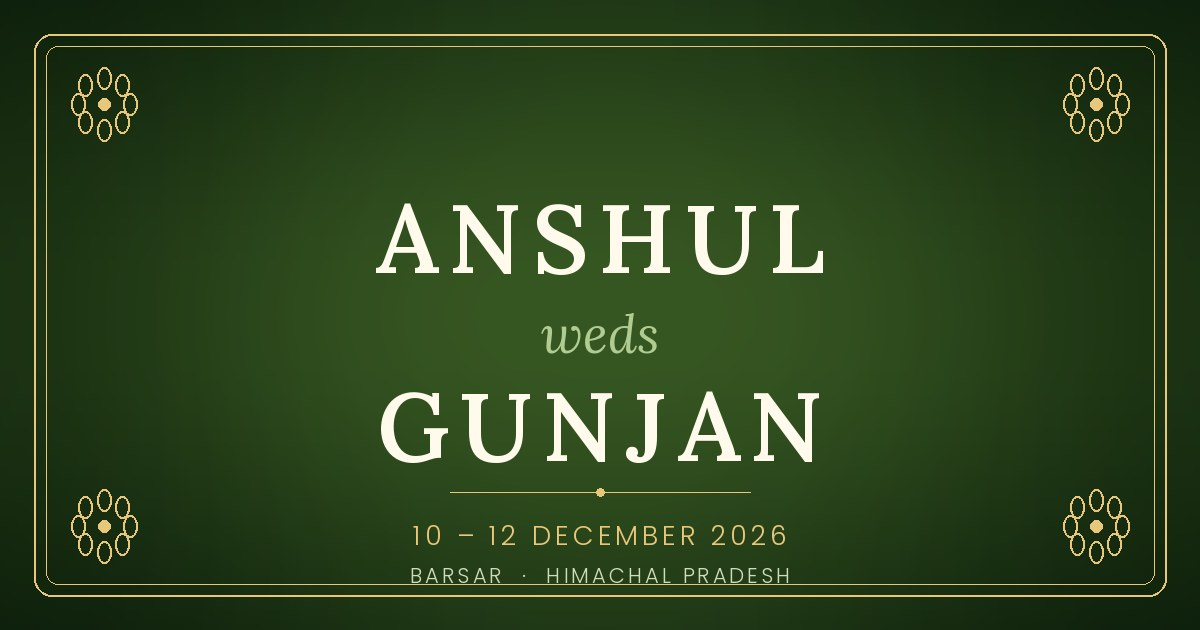
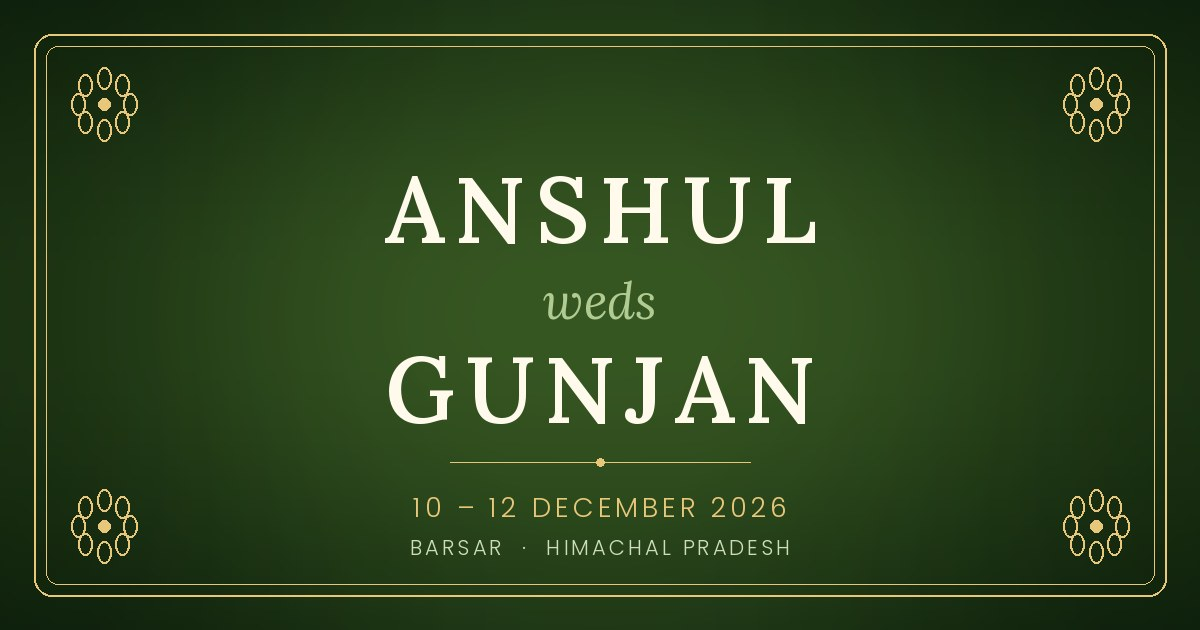
chore: update share preview image
Bump og.jpg cache-buster so WhatsApp refreshes the card.

Changed region(s): [[0.3083, 0.2714, 0.7092, 0.9349]]

diff --git a/index.html b/index.html
@@ -10,8 +10,8 @@
 <meta property="og:url" content="https://anshulp4014.github.io/Anshul-Weds-Gunjan-Invitation/">
 <meta property="og:title" content="Anshul weds Gunjan">
 <meta property="og:description" content="10–12 December 2026 · Barsar, Hamirpur (H.P.). Tap to open your invitation.">
-<meta property="og:image" content="https://anshulp4014.github.io/Anshul-Weds-Gunjan-Invitation/og.jpg?v=1">
-<meta property="og:image:secure_url" content="https://anshulp4014.github.io/Anshul-Weds-Gunjan-Invitation/og.jpg?v=1">
+<meta property="og:image" content="https://anshulp4014.github.io/Anshul-Weds-Gunjan-Invitation/og.jpg?v=2">
+<meta property="og:image:secure_url" content="https://anshulp4014.github.io/Anshul-Weds-Gunjan-Invitation/og.jpg?v=2">
 <meta property="og:image:type" content="image/jpeg">
 <meta property="og:image:width" content="1200">
 <meta property="og:image:height" content="630">
@@ -19,9 +19,9 @@
 <meta name="twitter:card" content="summary_large_image">
 <meta name="twitter:title" content="Anshul weds Gunjan">
 <meta name="twitter:description" content="10–12 December 2026 · Barsar, Hamirpur (H.P.)">
-<meta name="twitter:image" content="https://anshulp4014.github.io/Anshul-Weds-Gunjan-Invitation/og.jpg?v=1">
+<meta name="twitter:image" content="https://anshulp4014.github.io/Anshul-Weds-Gunjan-Invitation/og.jpg?v=2">
 <link rel="canonical" href="https://anshulp4014.github.io/Anshul-Weds-Gunjan-Invitation/">
-<link rel="icon" href="og.jpg?v=1" type="image/jpeg">
+<link rel="icon" href="og.jpg?v=2" type="image/jpeg">
 <meta name="theme-color" content="#1C2B14">
 <link rel="preconnect" href="https://fonts.googleapis.com">
 <link rel="preconnect" href="https://fonts.gstatic.com" crossorigin>
